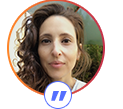
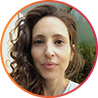
bugs remove

diff --git a/index.html b/index.html
@@ -13,11 +13,13 @@
 </head>
 
 <body>
-    <section class="workflow">
-        <div class="container ">
+
+    <header>
+ 
             <nav class="navbar navbar-expand-lg">
+                <div class="container ">
                 <img class="navbar-brand nav-logo" src="./assest/images/nav-logo.png"></img>
-                <button class="navbar-toggler" type="button" data-bs-toggle="collapse" data-bs-target="#navbarNav"
+                <button class="navbar-toggler" type="button" data-bs-toggle="offcanvas" data-bs-target="#offcanvasExample"
                     aria-controls="navbarNav" aria-expanded="false" aria-label="Toggle navigation">
                     <span class="navbar-toggler-icon text-white"><i class="fa-solid fa-bars"></i></span>
                 </button>
@@ -43,7 +45,40 @@
                         </li>
                     </ul>
                 </div>
+                </div>
             </nav>
+             
+              
+              <div class="offcanvas offcanvas-start" tabindex="-1" id="offcanvasExample" aria-labelledby="offcanvasExampleLabel">
+                <div class="offcanvas-header">
+                  <h5 class="offcanvas-title" id="offcanvasExampleLabel">Webify</h5>
+                  <button type="button" class="btn-close" data-bs-dismiss="offcanvas" aria-label="Close"></button>
+                </div>
+                <div class="offcanvas-body">
+                    <ul class="navbar-nav ">
+                        <li class="nav-item">
+                            <a class="nav-link " aria-current="page" href="home.html">Home</a>
+                        </li>
+                        <li class="nav-item">
+                            <a class="nav-link" href="#">Service </a>
+                        </li>
+                        <li class="nav-item">
+                            <a class="nav-link" href="index.html">Workflow</a>
+                        </li>
+                        <li class="nav-item">
+                            <a class="nav-link " href="#">CaseStudy</a>
+                        </li>
+                        <li class="nav-item">
+                            <a class="nav-link " href="#">Contact</a>
+                        </li>
+                        </ul>
+                </div>
+              </div>
+
+    </header>
+
+    <section class="workflow">
+       
 
             <div class="webi-agency">
                 <div class="col-12">
@@ -57,6 +92,11 @@
 
         </div>
     </section>
+
+
+
+
+
     <section>
         <div class="container">
             <div class="col-12">
@@ -158,7 +198,13 @@
                 </div>
                 <div class="col-lg-6">
                     <div class="similar">
-                        <img src="./assest/images/cust-1.png" alt="">
+                        <div class="cus-profile">   
+                             <img src="./assest/images/cust-1.png" alt=""> 
+                             </div>
+                             <div class="icon-bot mt-3 ms-2">
+                             <img src="./assest/images/images/img-bot.png" alt="">
+                        </div>
+                    
                         <p>Working with Igal is a treat! When it comes to understanding SEO inside out and how to apply
                             it in organizations of different sizes and industries, he really is the best of the best.
                         </p>
@@ -176,7 +222,12 @@
                 </div>
                 <div class="col-lg-6">
                     <div class="similar">
-                        <img src="./assest/images/cust-2.png" alt="">
+                        <div class="cus-profile">   
+                            <img src="./assest/images/cust-2.png" alt=""> 
+                            </div>
+                            <div class="icon-bot mt-3 ms-2">
+                            <img src="./assest/images/images/img-bot.png" alt="">
+                       </div>
                         <p>I've been working with Igal for over 8 years, and will recommend his new agency to anyone
                             who's looking for a genuine organic growth strategy. Igal is not just an SEO expert, he
                             truly gets International Search, a rare mix of Technical and Marketing-oriented SEO.</p>
@@ -184,9 +235,9 @@
                             <p><b>Neta Geffen,</b><span>Directer of Organic Growth miro.</span></p>
                         </div>
                         <center>
-                            <div class="after"></div>
+                            <div class="after-bar"></div>
                         </center>
-                        <div class="simi ">
+                        <div class="miro ">
                             <span><img src="./assest/images/micro.png" alt=""></span>
                         </div>
                     </div>

diff --git a/assest/css/style.css b/assest/css/style.css
@@ -13,6 +13,8 @@ body{
     font-family: 'Poppins', sans-serif;
     background-color: #011a39;
 }
+
+
 h1,h2,h3,h4,h5,h6{
     font-weight: 700;
     color: #323232;
@@ -27,11 +29,26 @@ a:hover{
     text-decoration: none;
     color: white;
 }
+.navbar{
+    background-color: transparent;
+}
 .navbar-toggler:focus,
 .navbar-toggler:active,
 .navbar-toggler-icon:focus {
     outline: none;
     box-shadow: none;
+}
+.offcanvas{
+    background-color: #00152e;
+}
+.offcanvas-title{
+    color: #fff;
+    font-size: 30px;
+    font-weight: 700;
+}
+.btn-close{
+    color: #fff;
+    background-color: wheat;
 }
 .container{
     max-width: 1140px !important;
@@ -43,6 +60,9 @@ a:hover{
     background-repeat: no-repeat;
     background-size: cover;
     clip-path: polygon(100% 0, 100% 92%, 53% 100%, 0 93%, 0 0);
+    position: relative;
+    top: -108px;
+    z-index: -1;
 
 }
 .nav-item{
@@ -97,7 +117,8 @@ a:hover{
     color: #fff;
     font-size: 58px;
     font-weight: 700;
-    padding-top: 122px;
+    padding-top: 225px;
+    
 }
 .fintach p{
     color: #fff;
@@ -107,7 +128,7 @@ a:hover{
     padding-bottom: 160px;
 }
 .strategy{
-    padding-top: 78px;
+    /* padding-top: 50px; */
     text-align: center;
 }
 .strategy h3{
@@ -121,7 +142,7 @@ a:hover{
 .strategy p{
     font-size: 18px;
     font-weight: 400;
-    color: #a6b2c0;
+    color: #dde4ed;
     padding-top: 19px;
     margin-bottom: 77px;
 }
@@ -160,14 +181,14 @@ a:hover{
     max-width: 386px;
     border-radius: 50%;
     border: 1px solid #181831;
-    margin-top: 30px;
-    margin-left: 35px;
+    margin-top: 35px;
+    margin-left: 36px;
 }
 .work{
     background-color: #011a39;
     min-height: 319px;
     max-width: 315px;
-    border: 8px solid #ff961c;
+    border: 8px solid #fe693b;
     /* border-image: linear-gradient(180deg,#ff961c,#fe693b); */
     /* border-image-slice:1 ; */
     border-radius: 50%;
@@ -175,12 +196,12 @@ a:hover{
     color: #fff;
     font-weight: 700;
     margin-top: 30px;
-    margin-left: 30px;
+    margin-left: 33px;
     justify-content: center;
-    justify-items: center;
-   justify-self: center;
+    align-items: center;
     font-size: 48px;
     padding-top: 70px;
+    line-height: 55px;
 }
 .our{
     margin-bottom: 100px;
@@ -196,7 +217,7 @@ a:hover{
 }
 .list p{
     padding: 5px 25px;
-    background-image: linear-gradient(90deg,#f8842f, #cf4152);
+    background-image: linear-gradient(90deg,#f8842f, #ef3a4a);
     border-radius: 50%;
     color: #fff;
     text-align: center;
@@ -270,13 +291,14 @@ a:hover{
     margin-top: 40px;
     margin-bottom: 40px;
 }
+
 .similar img{
     margin-top: -60px;
     text-align: center;
 }
 .similar p{
     color: #fff;
-    padding-top: 15px;
+    margin-top: -14px;
     font-weight: 500px;
     font-size: 18px;
     line-height: 25px;
@@ -291,17 +313,27 @@ a:hover{
 .simi{
     padding-top: 10px;
 }
+.miro{
+    padding-top: 10px;
+}
 .anot{
     margin-bottom: 0px !important;
+    padding-top: 20px;
+}
+.neta{
+    padding-top: 15px;
 }
 .anot b{
     padding-right: 5px;
 }
 .anot span {
-    color: #a6b2c0;
+    color: #d0d9e4;
 }
 .neta p{
     padding-top: 18px;
+}
+.neta span{
+    color: #d0d9e4;
 }
 .neta b{
     padding-right: 5px;
@@ -313,6 +345,13 @@ a:hover{
     margin-bottom: 10px;
     margin-top: -3px;
     
+}
+.after-bar{
+    width: 23px;
+    height: 2px;
+    background-color: #2b449c;
+    margin-bottom: 10px;
+    margin-top: 25px;
 }
 .similar span img{
     margin-top: 0px;
@@ -390,6 +429,7 @@ a:hover{
 .terms{
     padding-top: 80px;
     color: #a6b2c0;
+    font-size: 16px;
     
     
 }
@@ -431,12 +471,12 @@ a:hover{
 
 
 .text1{
-    color: #a6b2c0;
+    color: #d0d9e4;
     margin-top: 42px;
     padding-bottom: 30px;
 }
 .home-1{
-    color: #fff;
+    color: #d0d9e4;
     display: flex;
     /* margin: 10px; */
     flex-direction: column;
@@ -454,6 +494,7 @@ a:hover{
     background-color: #1a2d43;
     width: 40px;
     text-align: center;
+    margin-left: -2px;
 }
 
 .bot{
